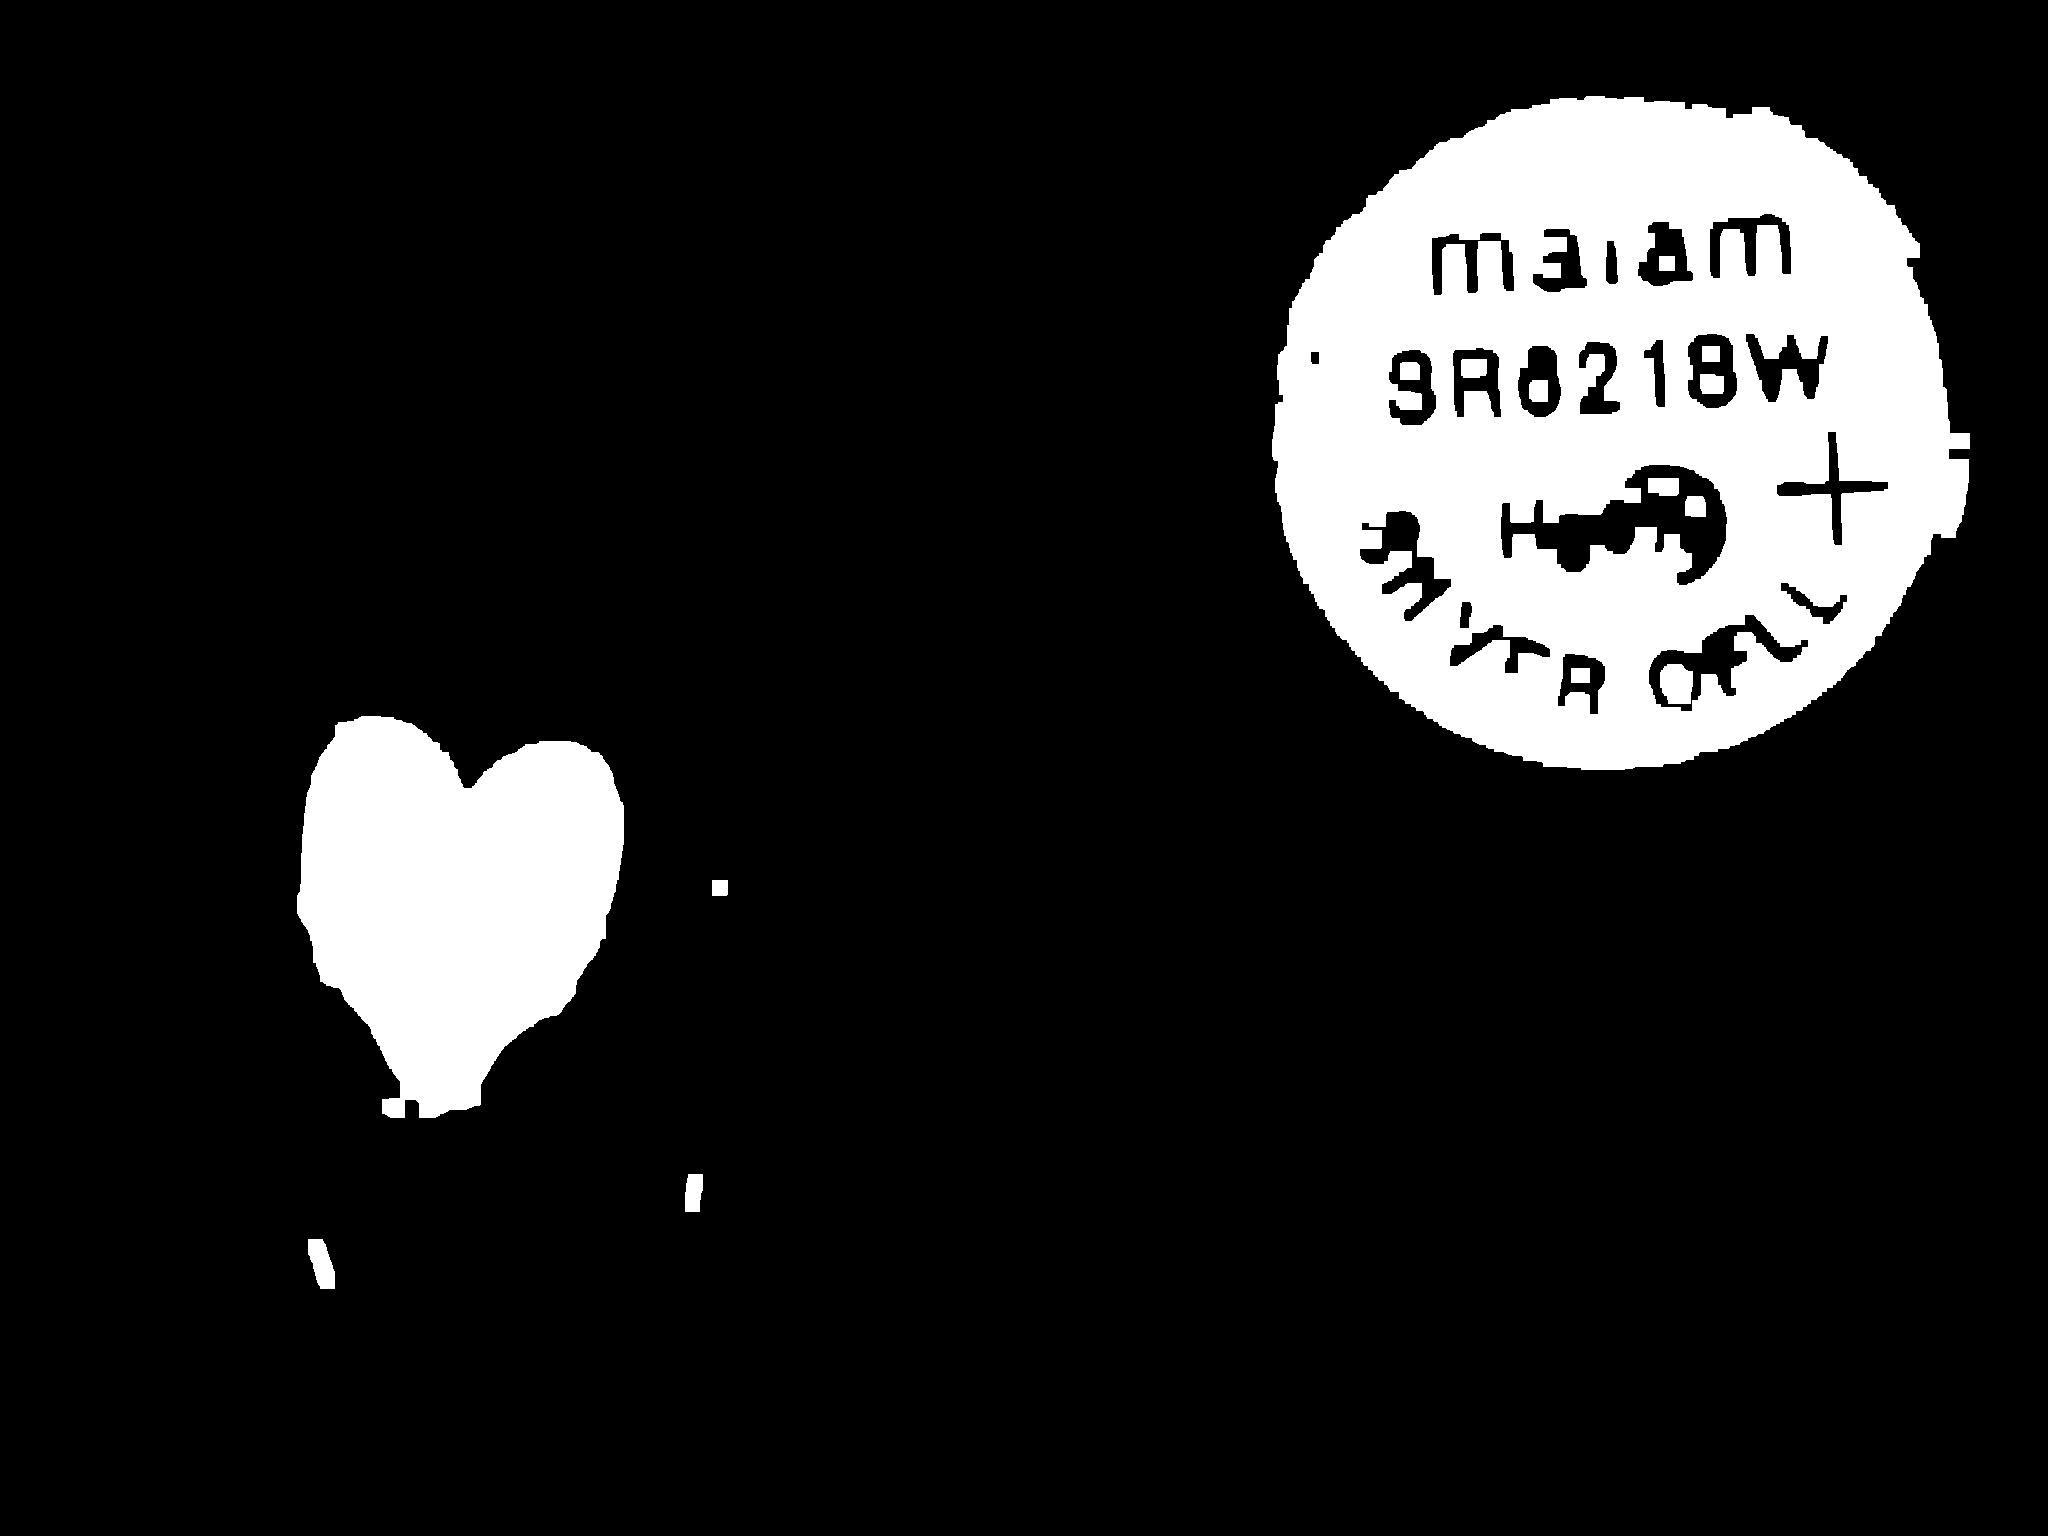
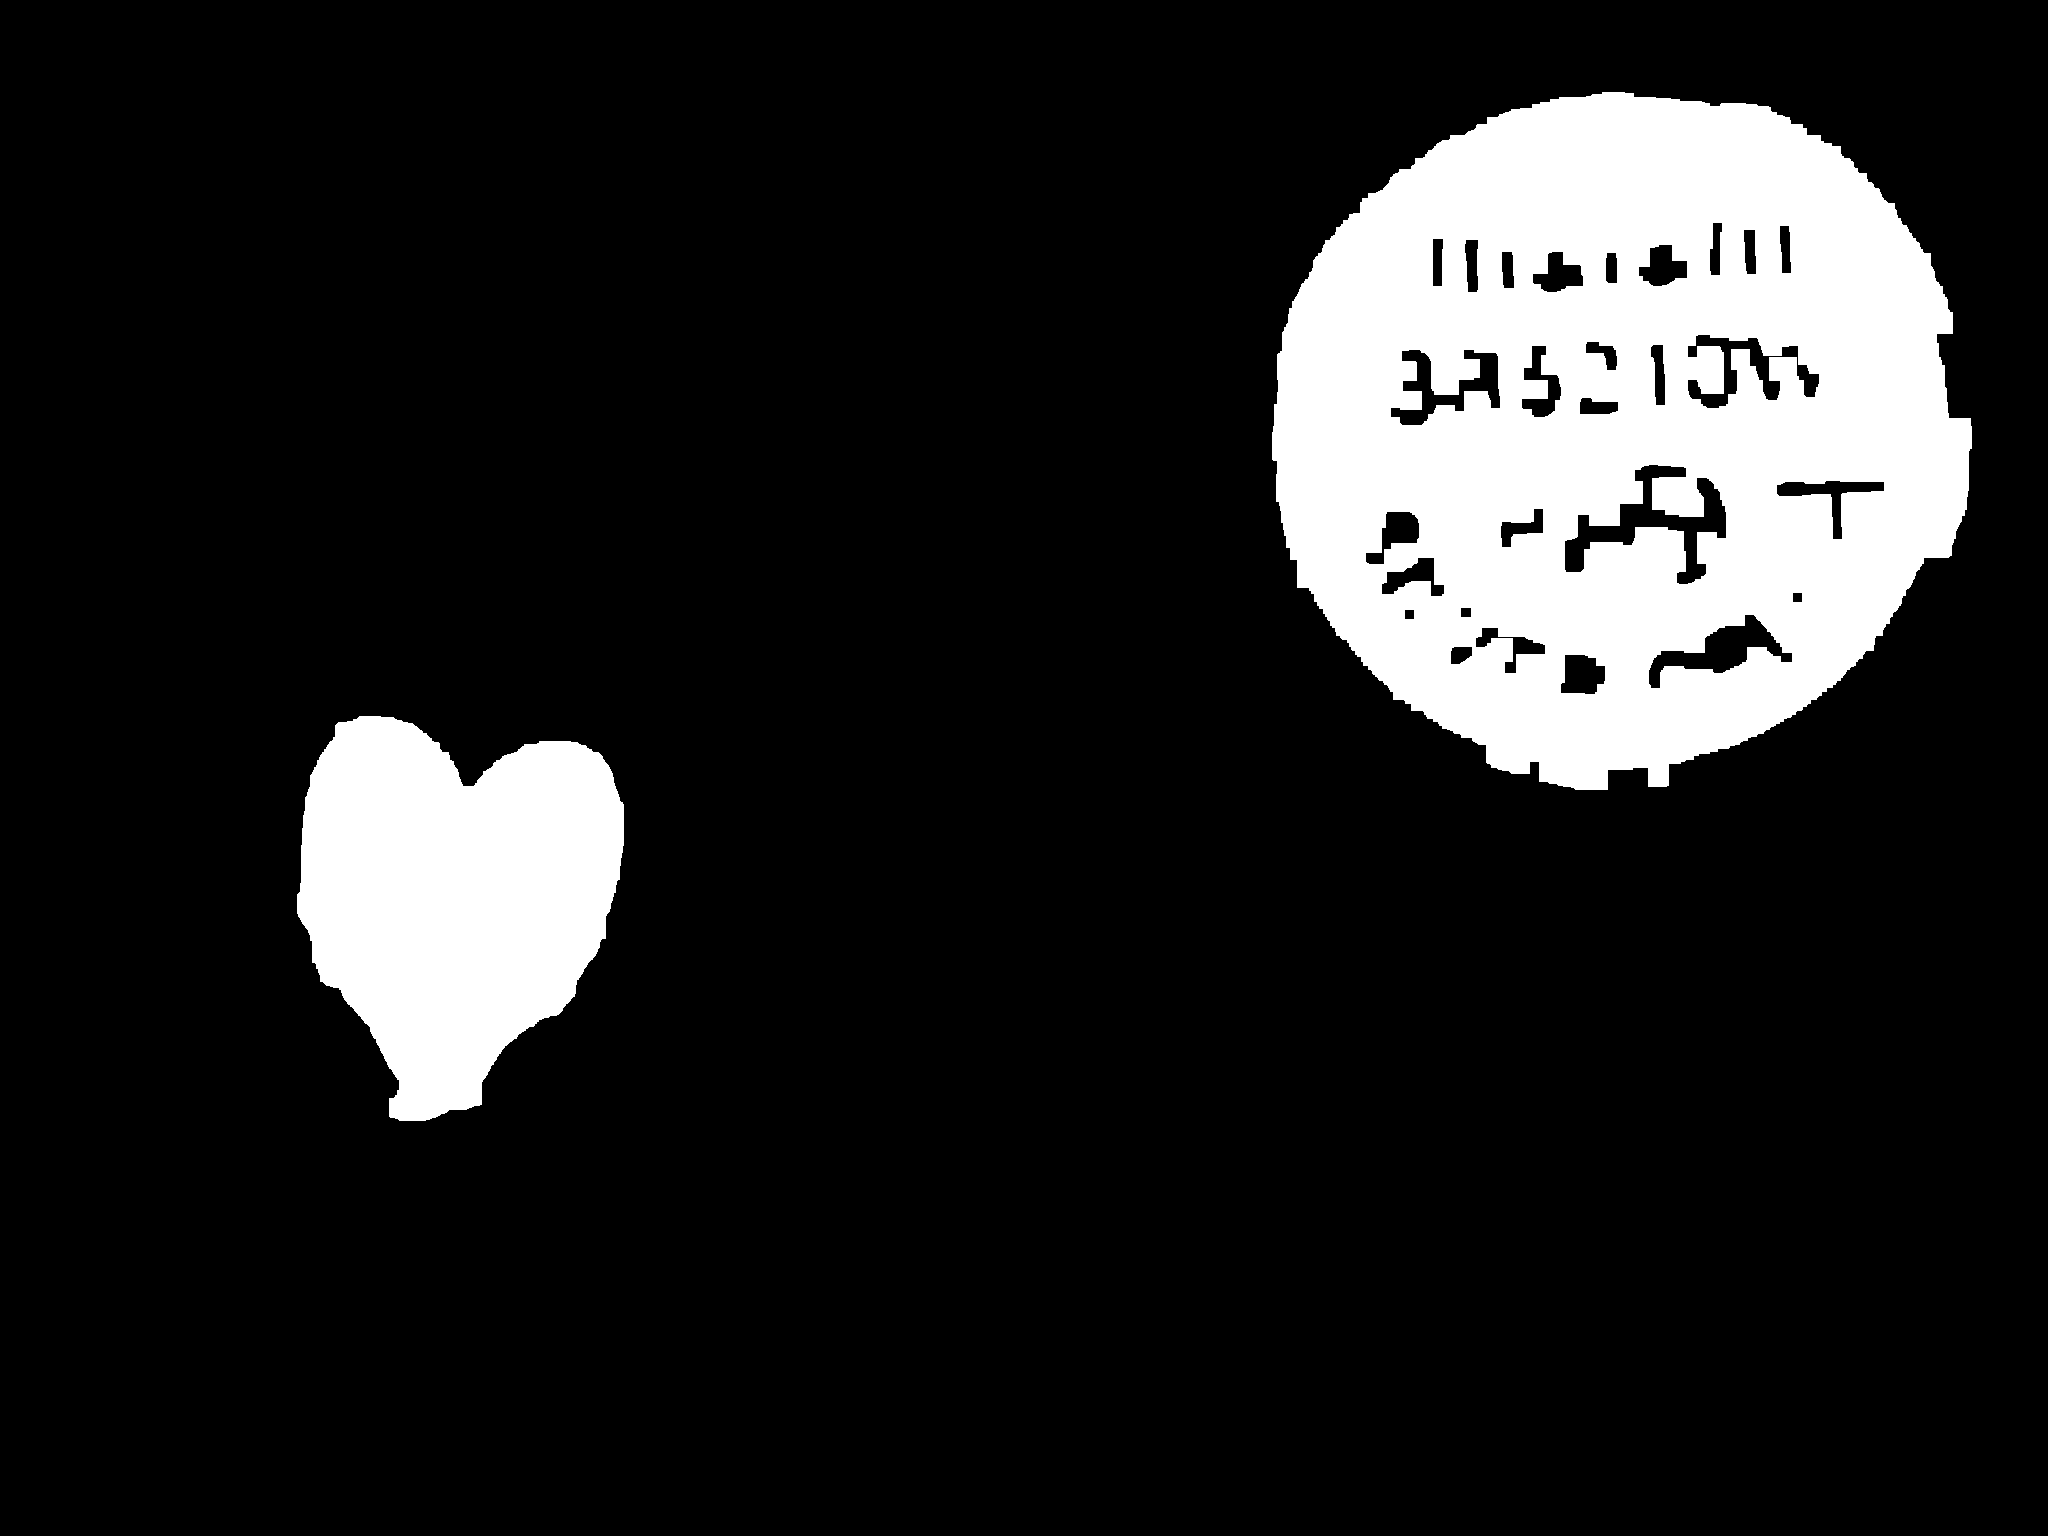
segmentação otimizada e 100% completa

diff --git a/src/image/App.java b/src/image/App.java
@@ -8,43 +8,51 @@ public class App {
             pathOriginals = "src/image/originais/",
             pathResults = "src/image/resultantes/";
         // Total de colunas da pilha e cabeça na imagem
-        int totalColunasPilha, totalColunasCabeca;
+        int totalColunasPilha, totalColunasCabeca, limiar = 113;
         // A variável métrica diz respeito ao tamanho da pilha em mm
         float
             metrica = (float) 6.8,
             diametroPilha;
         
-        // Lendo banco de imagens
+        // Lendo do banco de imagens
         var imRGB = Image.imRead(pathOriginals + "1.jpg");
 
         // Convertendo a imagem para tons de cinza
         var imGray = Image.rgb2gray(imRGB);
+        
+        /*
+         * Criando cópia da imagem em tons de cinza
+         * para fazer a limiarização
+         */
+        var imLimiarizada = new int[imGray.length][imGray[0].length];
+        for(int i = 0; i < imGray.length; i++)
+            for(int j = 0; j < imGray[0].length; j++)
+                imLimiarizada[i][j] = imGray[i][j];
 
         /*
          * Fazendo a limiarização da imagem a partir
          * de uma intensidade constante encontrada
          */
-        for(int i = 0; i < imGray.length; i++)
-            for(int j = 0; j < imGray[0].length; j++)
-                if(imGray[i][j] < 110)
-                    imGray[i][j] = 1;
+        for(int i = 0; i < imLimiarizada.length; i++)
+            for(int j = 0; j < imLimiarizada[0].length; j++)
+                if(imLimiarizada[i][j] < limiar)
+                    imLimiarizada[i][j] = 1;
                 else
-                    imGray[i][j] = 0;
+                    imLimiarizada[i][j] = 0;
         
         /*
-         * Aqui a imagem se torna lógica com a função "logical" e,
-         * logo após, a imagem é erodida e dilatada para remover ruídos.
-         * A variável "imLogica recebe o resultado desse procedimento."
+         * Aqui acontecem 3 processos.
+         * - Primeiro a imagem "imLimiarizada" é transformada em lógica
+         * - É feito uma dilatação e 
          */
-        
         var imLogica = Image.bwClose(
-            Image.logical(imGray),
-            6
+            Image.logical(imLimiarizada),
+            8
         );
 
         imLogica = Image.bwOpen(
             imLogica,
-            15
+            18
         );
 
         /*
@@ -100,8 +108,14 @@ public class App {
             for(int j = 0; j < cabeca[0].length; j++)
                 cabeca[i][j] = imLogica[i][j+inicioCabeca];
         
-        Image.imWrite(pilha, pathResults+"pilha.png");
+        for(int i = 0; i < imGray.length; i++)
+            for(int j = 0; j < imGray[0].length; j++)
+                if(!imLogica[i][j])
+                    imGray[i][j] = 0;
+        
+        
+        Image.imWrite(imGray, pathResults+"cinza.png");
         Image.imWrite(imLogica, pathResults+"mascara.png");
-        Image.imWrite(Image.logical(imGray), pathResults+"logica.png");
+        Image.imWrite(Image.logical(imLimiarizada), pathResults+"logica.png");
     }
 }
